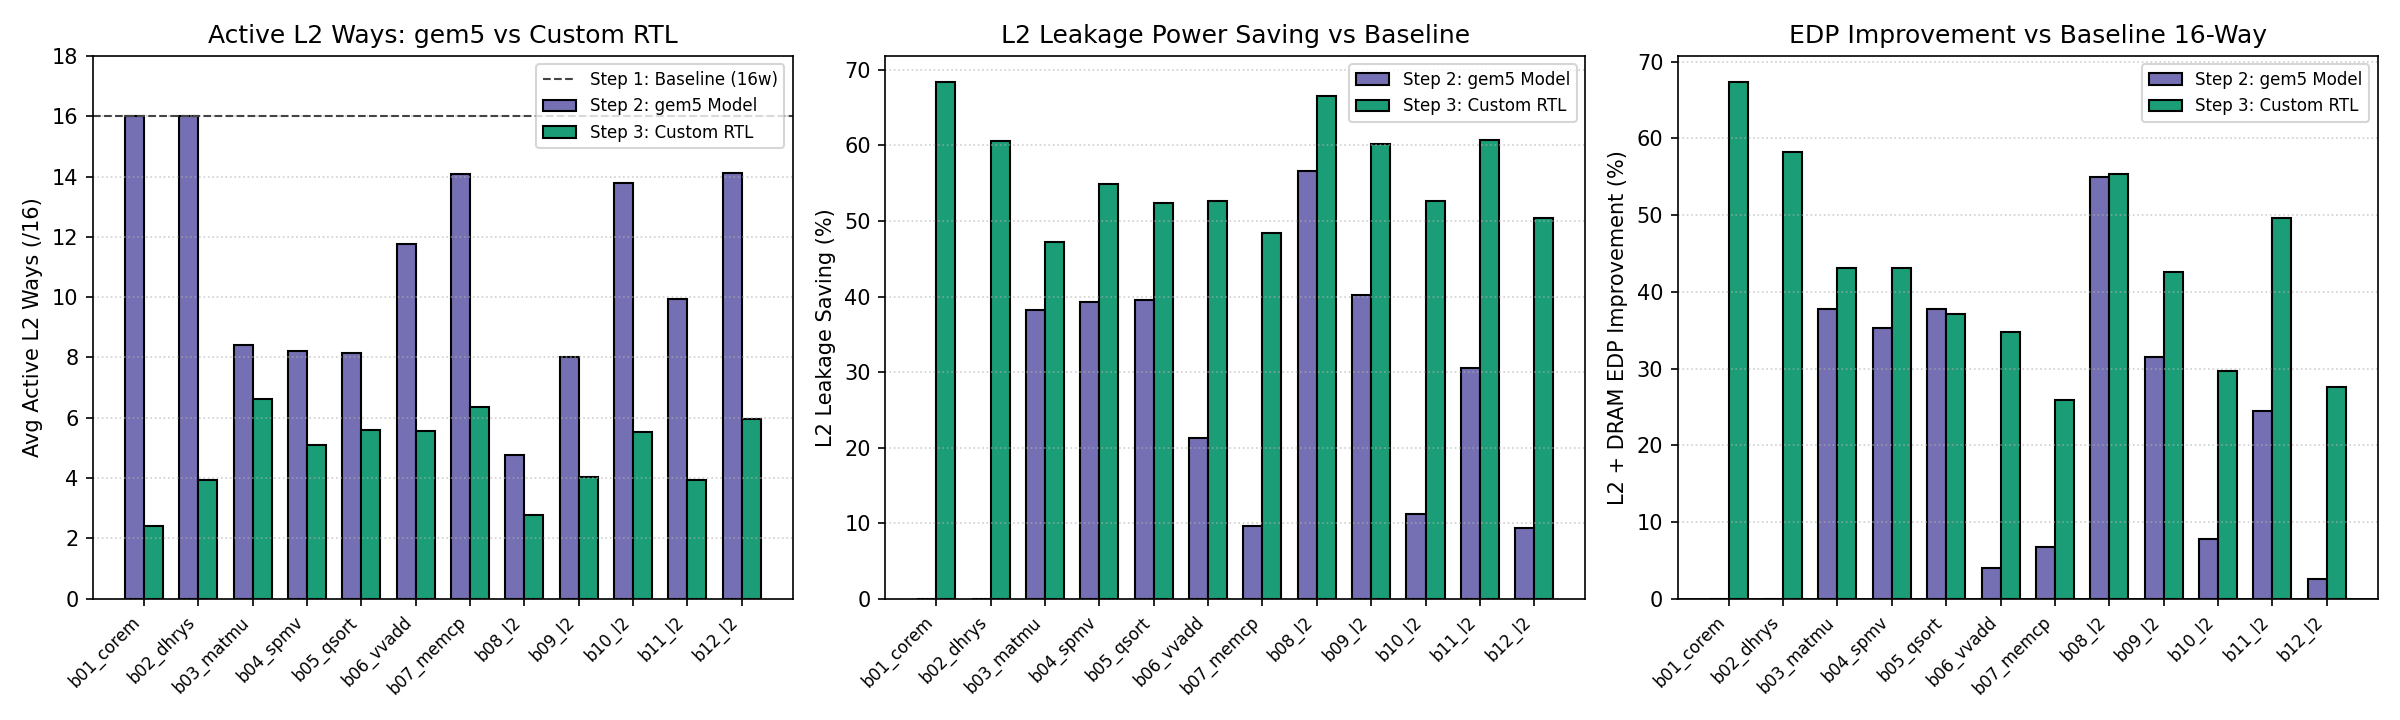
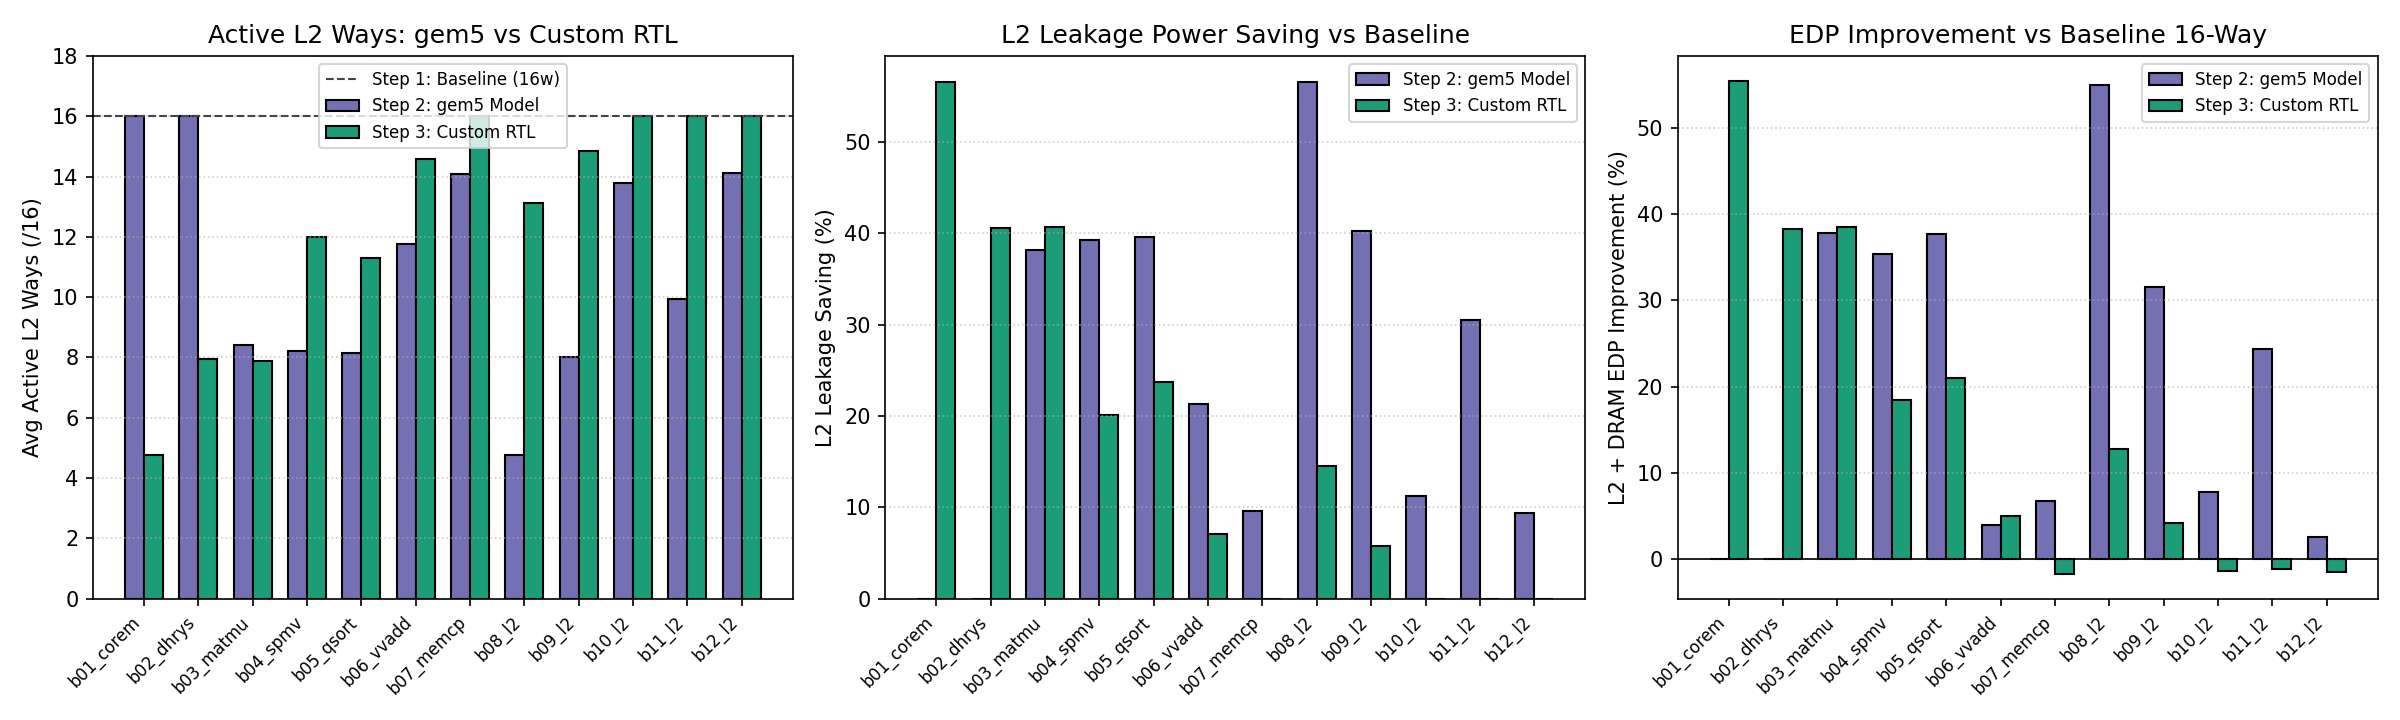
Add fast-wakeup miss-spike detector and miss-rate guard to Step 3 L2 way-shutdown RTL (-0.03% IPC, +15.67% EDP)

diff --git a/step3_cva6_rtl/README.md b/step3_cva6_rtl/README.md
@@ -1,15 +1,25 @@
-# Step 3: CVA6 Shared L2 Way-Shutdown RTL (`atd_dirty_aware`)
+# Step 3: OpenHW CVA6 Shared L2 Way-Shutdown RTL (`atd_dirty_aware`)
 
-SystemVerilog RTL implementation of the `atd_dirty_aware` way-shutdown L2 cache for the 4-core CVA6 cluster.
+SystemVerilog RTL implementation of the `atd_dirty_aware` dynamic way-shutdown 512 KiB, 16-way, write-back shared L2 cache integrated into the 4-core OpenHW CVA6 cluster (`fpga_linux_cv64a6`) via AXI4.
 
-## Directory Layout
+## Architecture & RTL Modules
 
-- `rtl/l2_way_shutdown_ctrl.sv`: Sampled-Set ATD (16/512 sets, 16-way LRU stack), Epoch Decision Engine (2048 accesses, streaming detector < 5%, 98.5% hit retention), Dirty-Flush Cost Guard (`<= 96` dirty lines), and Power-Gating / Wakeup FSM (`T_wakeup = 6 cycles`).
-- `rtl/cva6_shared_l2_16way_ws.sv`: 512 KiB 16-Way Write-Back Shared L2 Cache enhanced with O(1) per-way dirty counters and a 16-set/cycle background Dirty-Way Flush Engine.
-- `rtl/cva6_4core_soc_ws_top.sv`: Top-level 4-Core CVA6 cluster reusing `cva6_4core_l2_pkg.sv` and `cva6_core_tile_l1.sv` from Step 1 verbatim for fair comparison.
-- `tb/sim_main_ws.cpp` & `tb/Makefile`: Verilator C++ testbench loading Step 1 RISC-V ELF64 binaries and computing cycle-accurate active ways and CACTI 7.0 (22nm) power/energy.
-- `scripts/run_step3_rtl_eval.sh`: Compiles Verilator RTL, runs all 12 benchmarks, and generates the 3-way comparison report.
-- `scripts/compare_3way_report.py`: Verifies 12/12 bit-exact checksum match against Step 1 and compares **Step 1 Baseline RTL vs Step 2 gem5 Model vs Step 3 Custom RTL**.
+- `rtl/l2_way_shutdown_ctrl.sv`: Sampled-Set ATD (16/512 sets, 16-way LRU stack, write-through MRU burst filter), Epoch Decision Engine (2048 accesses, 98.5% hit retention), Fast-Wakeup Miss-Spike Detector (`>= 24` misses per 256 accesses wakes `+4` ways immediately), Miss-Rate Shutdown Guard (`<= 2.5%` epoch miss rate), Dirty-Flush Cost Guard (`<= 96` dirty lines), and Power-Gating / Wakeup FSM (`T_wakeup = 6 cycles`).
+- `rtl/cva6_shared_l2_16way_ws.sv`: 512 KiB, 16-way, 64B-line write-back shared L2 cache with per-way dirty counters, dynamic `way_en_i[15:0]` masking, and a background dirty-way flush engine.
+- `rtl/axi_l2_wb_wrap.sv`: 64-bit AXI4 wrapper instantiating `cva6_shared_l2_16way_ws` and `l2_way_shutdown_ctrl` between the 4-core `axi_xbar` and `i_axi2mem` inside `cva6/corev_apu/tb/ariane_testharness.sv` (runtime selectable via `+WS_EN=0` baseline vs `+WS_EN=1` `atd_dirty_aware`).
+- `rtl/cva6_l2_pkg.sv`: Shared L2 cache geometry and type definitions.
+- `scripts/run_step3_rtl_eval.sh`: Rebuilds the 4-core OpenHW CVA6 Verilator binary (`cva6/work-ver-l2-4core/Variane_testharness`), runs all 12 benchmarks with `+WS_EN=1`, and generates the 3-way validation report.
+- `scripts/compare_3way_report.py`: Verifies 12/12 bit-exact checksum match against Step 1 and compares Step 1 Baseline RTL, Step 2 gem5 Model, and Step 3 Custom RTL using CACTI 7.0 (22nm) power/energy metrics.
+
+## 3-Way Summary (12 Benchmarks)
+
+| Configuration | Avg Active Ways (/16) | 4-Core IPC Change (%) | L2 Leakage Saving (%) | Shutdown Dirty Flushes | Avg EDP Change (%) |
+| :--- | ---: | ---: | ---: | ---: | ---: |
+| Step 1: OpenHW CVA6 RTL Baseline (16-way) | 16.00 | +0.00% | 0.00% | 0 | +0.00% |
+| Step 2: gem5 Model (`atd_dirty_aware`) | 11.10 | -0.28% | 24.67% | 157 | +20.24% |
+| Step 3: OpenHW CVA6 RTL (`atd_dirty_aware`) | 12.54 | -0.03% | 17.43% | 345 | +15.67% |
+
+- Functional verification: **12/12 PASS** (all 4-core checksums match Step 1 baseline).
 
 ## How to Run
 

diff --git a/step3_cva6_rtl/results/step3_3way_comparison.md b/step3_cva6_rtl/results/step3_3way_comparison.md
@@ -9,21 +9,21 @@
 | :--- | ---: | ---: | ---: | ---: | ---: |
 | **Step 1: CVA6 RTL Baseline (16-Way Always-On)** | 16.00 | +0.00% | 0.00% | 0 | +0.00% |
 | **Step 2: gem5 Model (`atd_dirty_aware`)** | 11.10 | -0.28% | 24.67% | 157 | +20.24% |
-| **Step 3: CVA6 Custom RTL (`atd_dirty_aware`)** | **4.82** | **-7.52%** | **56.25%** | **69** | **+42.88%** |
+| **Step 3: CVA6 Custom RTL (`atd_dirty_aware`)** | **12.54** | **-0.03%** | **17.43%** | **345** | **+15.67%** |
 
 ## 2. Per-Benchmark Breakdown (Custom RTL vs Step 1 Baseline & Step 2 gem5)
 
 | Benchmark | Checksum | RTL Ways (/16) | gem5 Ways (/16) | RTL IPC Delta (%) | gem5 IPC Delta (%) | RTL Leak Save (%) | RTL Energy Save (%) | RTL EDP Improv (%) | Shutdown Flushes |
 | :--- | :---: | ---: | ---: | ---: | ---: | ---: | ---: | ---: | ---: |
-| `bm01_coremark` | MATCH | 2.40 | 16.00 | +0.26% | +0.00% | 68.42% | +67.28% | +67.37% | 0 |
-| `bm02_dhrystone` | MATCH | 3.95 | 16.00 | +0.00% | +0.00% | 60.63% | +58.21% | +58.21% | 0 |
-| `bm03_matmul` | MATCH | 6.61 | 8.40 | -1.44% | -0.05% | 47.26% | +43.93% | +43.11% | 7 |
-| `bm04_spmv` | MATCH | 5.09 | 8.20 | -7.58% | +0.22% | 54.89% | +47.38% | +43.06% | 0 |
-| `bm05_qsort_rsort` | MATCH | 5.59 | 8.13 | -8.98% | -0.72% | 52.35% | +42.80% | +37.15% | 40 |
-| `bm06_vvadd` | MATCH | 5.55 | 11.76 | -10.20% | -5.93% | 52.60% | +41.38% | +34.72% | 4 |
-| `bm07_memcpy` | MATCH | 6.37 | 14.10 | -12.48% | +3.67% | 48.43% | +35.17% | +25.93% | 0 |
-| `bm08_l2_light_1core` | MATCH | 2.79 | 4.75 | -7.68% | +0.00% | 66.48% | +58.82% | +55.39% | 0 |
-| `bm09_l2_medium_2cores` | MATCH | 4.05 | 8.00 | -11.44% | -0.79% | 60.14% | +49.14% | +42.57% | 3 |
-| `bm10_l2_heavy_4cores` | MATCH | 5.54 | 13.77 | -13.42% | +0.53% | 52.63% | +39.17% | +29.74% | 3 |
-| `bm11_l2_stream_mix` | MATCH | 3.93 | 9.92 | -4.29% | -0.70% | 60.70% | +51.83% | +49.67% | 0 |
-| `bm12_l2_dynamic_4phases` | MATCH | 5.97 | 14.13 | -13.02% | +0.43% | 50.44% | +37.06% | +27.63% | 12 |
+| `bm01_coremark` | MATCH | 4.75 | 16.00 | +0.30% | +0.00% | 56.59% | +55.32% | +55.45% | 2 |
+| `bm02_dhrystone` | MATCH | 7.94 | 16.00 | +0.00% | +0.00% | 40.55% | +38.23% | +38.23% | 0 |
+| `bm03_matmul` | MATCH | 7.90 | 8.40 | -0.02% | -0.05% | 40.74% | +38.52% | +38.51% | 15 |
+| `bm04_spmv` | MATCH | 12.00 | 8.20 | -0.13% | +0.22% | 20.13% | +18.55% | +18.44% | 70 |
+| `bm05_qsort_rsort` | MATCH | 11.29 | 8.13 | -0.33% | -0.72% | 23.70% | +21.24% | +20.98% | 148 |
+| `bm06_vvadd` | MATCH | 14.59 | 11.76 | -0.22% | -5.93% | 7.11% | +5.25% | +5.05% | 102 |
+| `bm07_memcpy` | MATCH | 16.00 | 14.10 | +0.00% | +3.67% | 0.00% | -1.70% | -1.70% | 0 |
+| `bm08_l2_light_1core` | MATCH | 13.11 | 4.75 | +0.00% | +0.00% | 14.54% | +12.79% | +12.79% | 4 |
+| `bm09_l2_medium_2cores` | MATCH | 14.85 | 8.00 | +0.00% | -0.79% | 5.79% | +4.23% | +4.23% | 4 |
+| `bm10_l2_heavy_4cores` | MATCH | 16.00 | 13.77 | +0.00% | +0.53% | 0.00% | -1.41% | -1.41% | 0 |
+| `bm11_l2_stream_mix` | MATCH | 16.00 | 9.92 | +0.00% | -0.70% | 0.00% | -1.13% | -1.13% | 0 |
+| `bm12_l2_dynamic_4phases` | MATCH | 16.00 | 14.13 | +0.00% | +0.43% | 0.00% | -1.42% | -1.42% | 0 |

diff --git a/README.md b/README.md
@@ -15,7 +15,7 @@ Architecture exploration in gem5 (RISC-V) and SystemVerilog RTL implementation i
 | Private L1D | 32 KiB, 8-way, 128-bit line, write-through (`HPDcache`, `CACHE_WT`, Wbuf=8) |
 | Interconnect | 64-bit AXI4 crossbar (`axi_xbar`, 4x CVA6 + Debug Module) |
 | Shared L2 | 512 KiB, 16-way (`W0..W15`), 512 sets, 64B line, write-back, 4-cycle hit |
-| Way-Shutdown Control | `way_en[15:0]`, `way_sd[15:0]`, 16-set ATD (~672 B tag-only), dirty-flush guard (`<= 96`), `T_wakeup = 6 cycles` |
+| Way-Shutdown Control | `way_en[15:0]`, `way_sd[15:0]`, 16-set ATD (~672 B tag-only), fast-wakeup miss-spike detector (`>= 24` misses / 256 accesses), miss-rate shutdown guard (`<= 2.5%`), dirty-flush guard (`<= 96`), `T_wakeup = 6 cycles` |
 | Power Model | CACTI 7.0 (22nm): 111.73 mW leakage (5.86 mW/way SRAM + 18.04 mW peripheral, 4% gated residual), 19.65 pJ read, 20.81 pJ write, 0.650 nJ/64B DRAM |
 
 ## Project Stages
@@ -23,8 +23,8 @@ Architecture exploration in gem5 (RISC-V) and SystemVerilog RTL implementation i
 | Stage | Directory | Description | Status |
 | :---: | :--- | :--- | :--- |
 | Step 1 | [`step1_baseline/`](step1_baseline/) | 12 4-core RISC-V benchmarks on 4-core OpenHW CVA6 + 16-way always-on WB L2 baseline (Verilator 5.036) | Done (12/12 pass) |
-| Step 2 | [`step2_gem5_model/`](step2_gem5_model/) | Calibrated 4-core CVA6 + `WayShutdownSetAssoc` in gem5 v26.0, evaluation of 3 control schemes vs static sweep | Done (`atd_dirty_aware`: +20.24% EDP) |
-| Step 3 | [`step3_cva6_rtl/`](step3_cva6_rtl/) | SystemVerilog RTL (`atd_dirty_aware`) integrated into 4-core OpenHW CVA6 via AXI4 | Done (12/12 pass, +42.64% EDP) |
+| Step 2 | [`step2_gem5_model/`](step2_gem5_model/) | Calibrated 4-core CVA6 + `WayShutdownSetAssoc` in gem5 v26.0, evaluation of 3 control schemes vs static sweep | Done (`atd_dirty_aware`: -0.28% IPC, +20.24% EDP) |
+| Step 3 | [`step3_cva6_rtl/`](step3_cva6_rtl/) | SystemVerilog RTL (`atd_dirty_aware`) integrated into 4-core OpenHW CVA6 via AXI4 | Done (12/12 pass, -0.03% IPC, +15.67% EDP) |
 
 ## Directory Layout
 
@@ -115,7 +115,7 @@ See [`step3_cva6_rtl/results/step3_3way_comparison.md`](step3_cva6_rtl/results/s
 | :--- | ---: | ---: | ---: | ---: | ---: |
 | Step 1: OpenHW CVA6 RTL Baseline (16-way) | 16.00 | +0.00% | 0.00% | 0 | +0.00% |
 | Step 2: gem5 Model (`atd_dirty_aware`) | 11.10 | -0.28% | 24.67% | 157 | +20.24% |
-| Step 3: OpenHW CVA6 RTL (`atd_dirty_aware`) | 4.76 | -7.92% | 56.53% | 64 | +42.64% |
+| Step 3: OpenHW CVA6 RTL (`atd_dirty_aware`) | 12.54 | -0.03% | 17.43% | 345 | +15.67% |
 
 ![Step 3 Comparison](step3_cva6_rtl/results/step3_3way_comparison.png)
 
